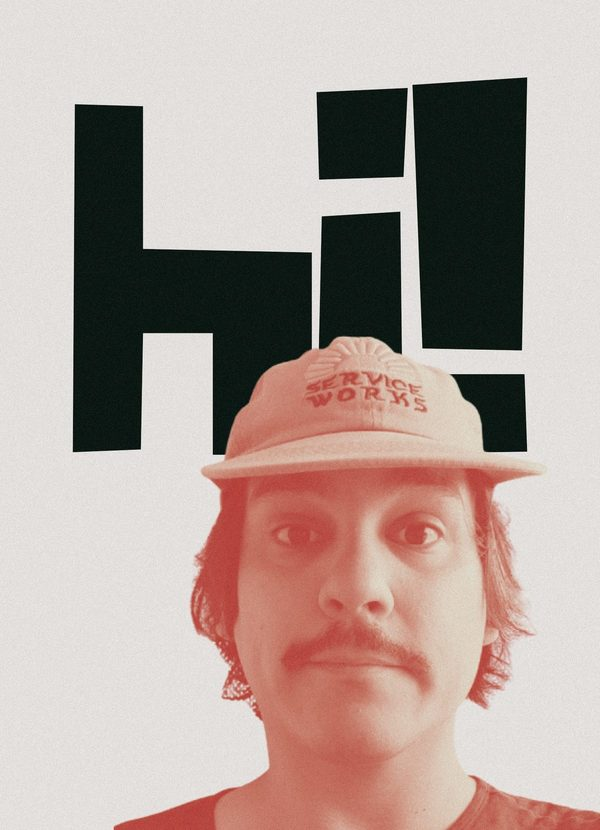
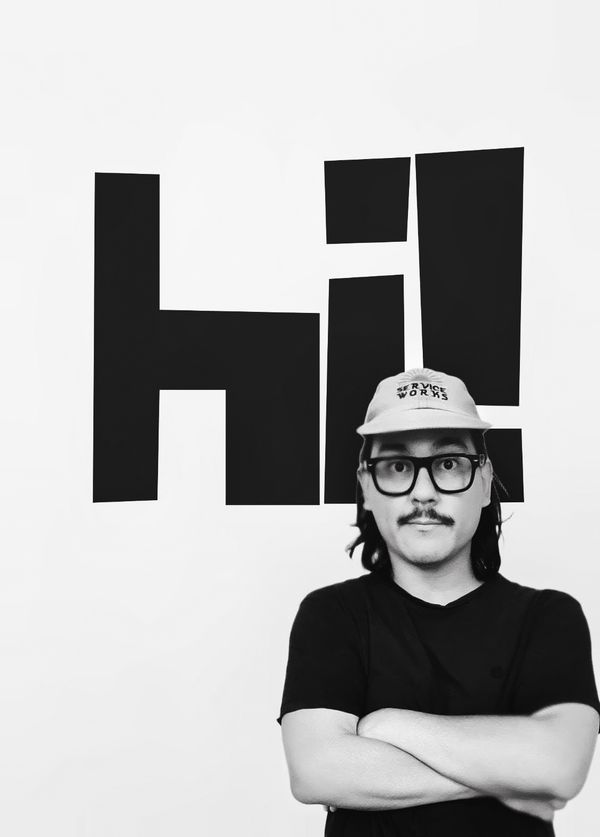
Replace profile photo with new portrait
- New hi.jpg/webp (1200×1674) and hi-sm.jpg/webp (600px)
- CSS duotone filter applies automatically via .dirA-portrait img
- Remove source WhatsApp image from repo
- Update HTML dimensions to match new image

Claude-Session: https://claude.ai/code/session_01B8DoTK287KRYrNksYcwuGj

diff --git a/index.html b/index.html
@@ -178,7 +178,7 @@
                srcset="img/hi-sm.jpg 600w, img/hi.jpg 1200w"
                sizes="(max-width: 860px) 280px, 320px"
                alt="Nicolás Bronzina profile picture"
-               width="800" height="1106"
+               width="1200" height="1674"
                fetchpriority="high">
         </picture>
       </div>
